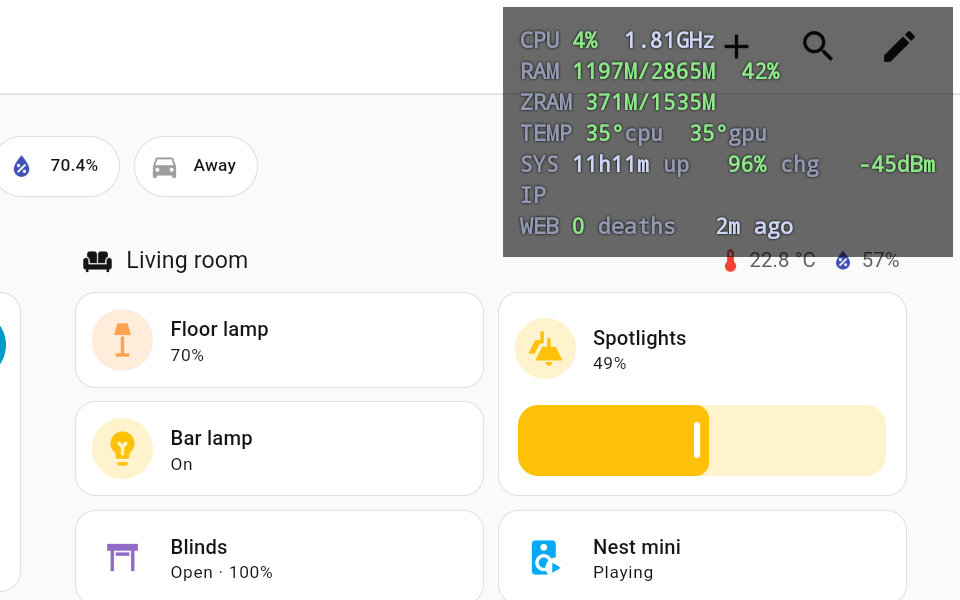
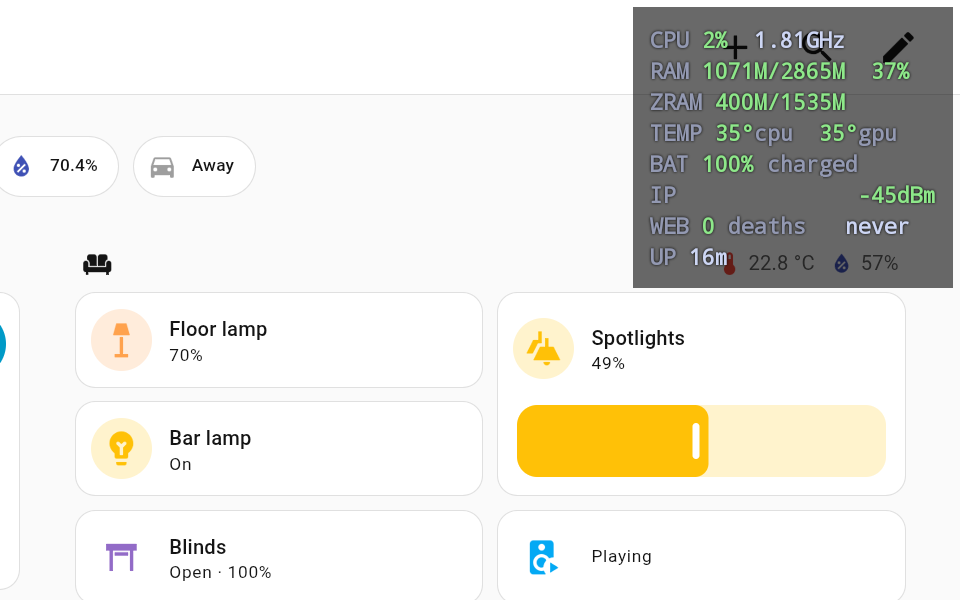
Refresh four screenshots, fix the narrow-screen masthead, trim one Pro line
The gallery had drifted behind the product: the web admin now shows the
sorted quick actions and the Legal card, the Home Assistant device page
lost the outage-cause sensor and gained the Diagnostic card, and both
were recaptured along with the recorder and the stats overlay, following
the redaction rules in the screenshots README. panel-in-place and
config-screen remain the 2026-08-21 captures.

On phone-width screens the masthead squeezed every nav link until its
label broke mid-word and pushed the theme pick onto a stray third row;
links no longer break internally and the nav wraps whole links on its
own line under the brand and theme pick.

The Pro tier loses the 'Buy once, then remove the account again' line.

diff --git a/index.html b/index.html
@@ -8,7 +8,7 @@
 <link rel="canonical" href="https://muralis.spazio17.org/">
 <link rel="icon" href="assets/img/icon-512.png" type="image/png">
 <link rel="apple-touch-icon" href="assets/img/icon-512.png">
-<link rel="stylesheet" href="assets/css/site.css?v=5">
+<link rel="stylesheet" href="assets/css/site.css?v=6">
 <meta property="og:type" content="website">
 <meta property="og:title" content="Muralis, hang it up and leave it">
 <meta property="og:description" content="Locks a tablet to one Home Assistant dashboard, recovers on its own, answers to MQTT and HTTP.">
@@ -153,7 +153,7 @@
         </figure>
 
         <figure class="shot contain stroke">
-          <div class="frame"><button type="button" class="shot-open" aria-label="Open a larger view: The Muralis device page in Home Assistant: brightness controls, five command buttons and seven sensors, all created by MQTT discovery"><img src="assets/img/screenshots/home-assistant.png" alt="The Muralis device page in Home Assistant: brightness controls, five command buttons and seven sensors, all created by MQTT discovery"></button></div>
+          <div class="frame"><button type="button" class="shot-open" aria-label="Open a larger view: The Muralis device page in Home Assistant: controls, sensors and diagnostics, all created by MQTT discovery"><img src="assets/img/screenshots/home-assistant.png" alt="The Muralis device page in Home Assistant: controls, sensors and diagnostics, all created by MQTT discovery"></button></div>
           <figcaption><b>In Home Assistant.</b> Discovered, not declared.</figcaption>
         </figure>
 
@@ -200,7 +200,6 @@
             <li>Commands over MQTT and HTTP: reload, restart, set URL, brightness, reboot</li>
             <li>The built-in web admin</li>
             <li><b>One purchase covers every panel on the same Google account</b></li>
-            <li>Buy once, then remove the account again if you prefer: it stays unlocked</li>
           </ul>
         </div>
 

diff --git a/assets/css/site.css b/assets/css/site.css
@@ -193,8 +193,22 @@ a:hover { color: var(--accent); }
 .brand:hover { color: var(--text); }
 .brand img { width: 28px; height: 28px; border-radius: 7px; display: block; }
 .masthead nav { display: flex; align-items: center; gap: 1.1rem; font-size: .9rem; }
-.masthead nav a { color: var(--subtext); text-decoration: none; }
+.masthead nav a { color: var(--subtext); text-decoration: none; white-space: nowrap; }
 .masthead nav a:hover { color: var(--accent); }
+
+/* Narrow screens: brand and theme pick share the first row, the nav wraps whole
+ * links on its own line below. Without this the flex row squeezed every link
+ * until its label broke mid-word ("What / it / does") and the theme pick fell
+ * to a stray third row. */
+@media (max-width: 760px) {
+  .masthead .wrap { row-gap: .2rem; padding-bottom: .6rem; }
+  .masthead nav {
+    order: 3;
+    flex-basis: 100%;
+    flex-wrap: wrap;
+    gap: .35rem .9rem;
+  }
+}
 
 /* The same pill-shaped segmented control the web admin uses for its theme pick. */
 .themepick {

diff --git a/privacy/index.html b/privacy/index.html
@@ -7,7 +7,7 @@
 <meta name="description" content="What Muralis sends, where it sends it, and what it stores on the device. It has no analytics, no crash reporting and no developer-controlled server.">
 <link rel="canonical" href="https://muralis.spazio17.org/privacy/">
 <link rel="icon" href="../assets/img/icon-512.png" type="image/png">
-<link rel="stylesheet" href="../assets/css/site.css?v=4">
+<link rel="stylesheet" href="../assets/css/site.css?v=6">
 <script>
   try {
     var t = localStorage.getItem('muralis-theme');

diff --git a/terms/index.html b/terms/index.html
@@ -7,7 +7,7 @@
 <meta name="description" content="What you may do with Muralis, what it does to a device it is installed on, how to get back out of the kiosk, and what is not promised.">
 <link rel="canonical" href="https://muralis.spazio17.org/terms/">
 <link rel="icon" href="../assets/img/icon-512.png" type="image/png">
-<link rel="stylesheet" href="../assets/css/site.css?v=4">
+<link rel="stylesheet" href="../assets/css/site.css?v=6">
 <script>
   try {
     var t = localStorage.getItem('muralis-theme');

diff --git a/imprint/index.html b/imprint/index.html
@@ -7,7 +7,7 @@
 <meta name="description" content="Provider identification for muralis.spazio17.org under the Austrian E-Commerce Act.">
 <link rel="canonical" href="https://muralis.spazio17.org/imprint/">
 <link rel="icon" href="../assets/img/icon-512.png" type="image/png">
-<link rel="stylesheet" href="../assets/css/site.css?v=4">
+<link rel="stylesheet" href="../assets/css/site.css?v=6">
 <script>
   try {
     var t = localStorage.getItem('muralis-theme');

diff --git a/assets/img/screenshots/README.md b/assets/img/screenshots/README.md
@@ -1,7 +1,10 @@
 # Screenshots
 
-All six gallery slots are filled. Captured from the real panel on 2026-08-21, a Huawei MediaPad on
-Android 8.0 (API 26), 1920x1200, provisioned as device owner.
+All six gallery slots are filled. Captured from the real panel, a Huawei MediaPad on Android 8.0
+(API 26), 1920x1200, provisioned as device owner. `web-admin.png`, `escape-recorder.png`,
+`stats-overlay.png` and `home-assistant.png` were recaptured on 2026-08-25 after the UI drifted
+(sorted quick actions, the Legal card, the retired outage-cause sensor); `panel-in-place.png` and
+`config-screen.png` are still the 2026-08-21 captures.
 
 | File | What it shows |
 | --- | --- |
@@ -36,6 +39,9 @@ and must contain nothing but background.
 ## Re-capturing
 
 `adb exec-out screencap -p > name.png` for the tablet's own screens. The web admin needs its live
-`/api/stats` poll to work, which means the browser must send Basic auth on the XHR too, headless
-Chrome will not attach credentials from a `user:pass@host` URL to a subresource request, so put a
-small auth-injecting reverse proxy in front of it and point the browser at that.
+`/api/stats` poll to work, which means the browser must send Basic auth on the XHR too. Headless
+Chrome will not attach credentials from a `user:pass@host` URL to a subresource request, but a
+browser-level extra header (`Authorization: Basic ...` set on the Playwright context) rides along on
+every request including the poll, which is simpler than the reverse proxy used for the first
+capture. The config values shown are illustrative, swapped in the DOM before the shot, so the real
+broker host and dashboard URL never appear.
